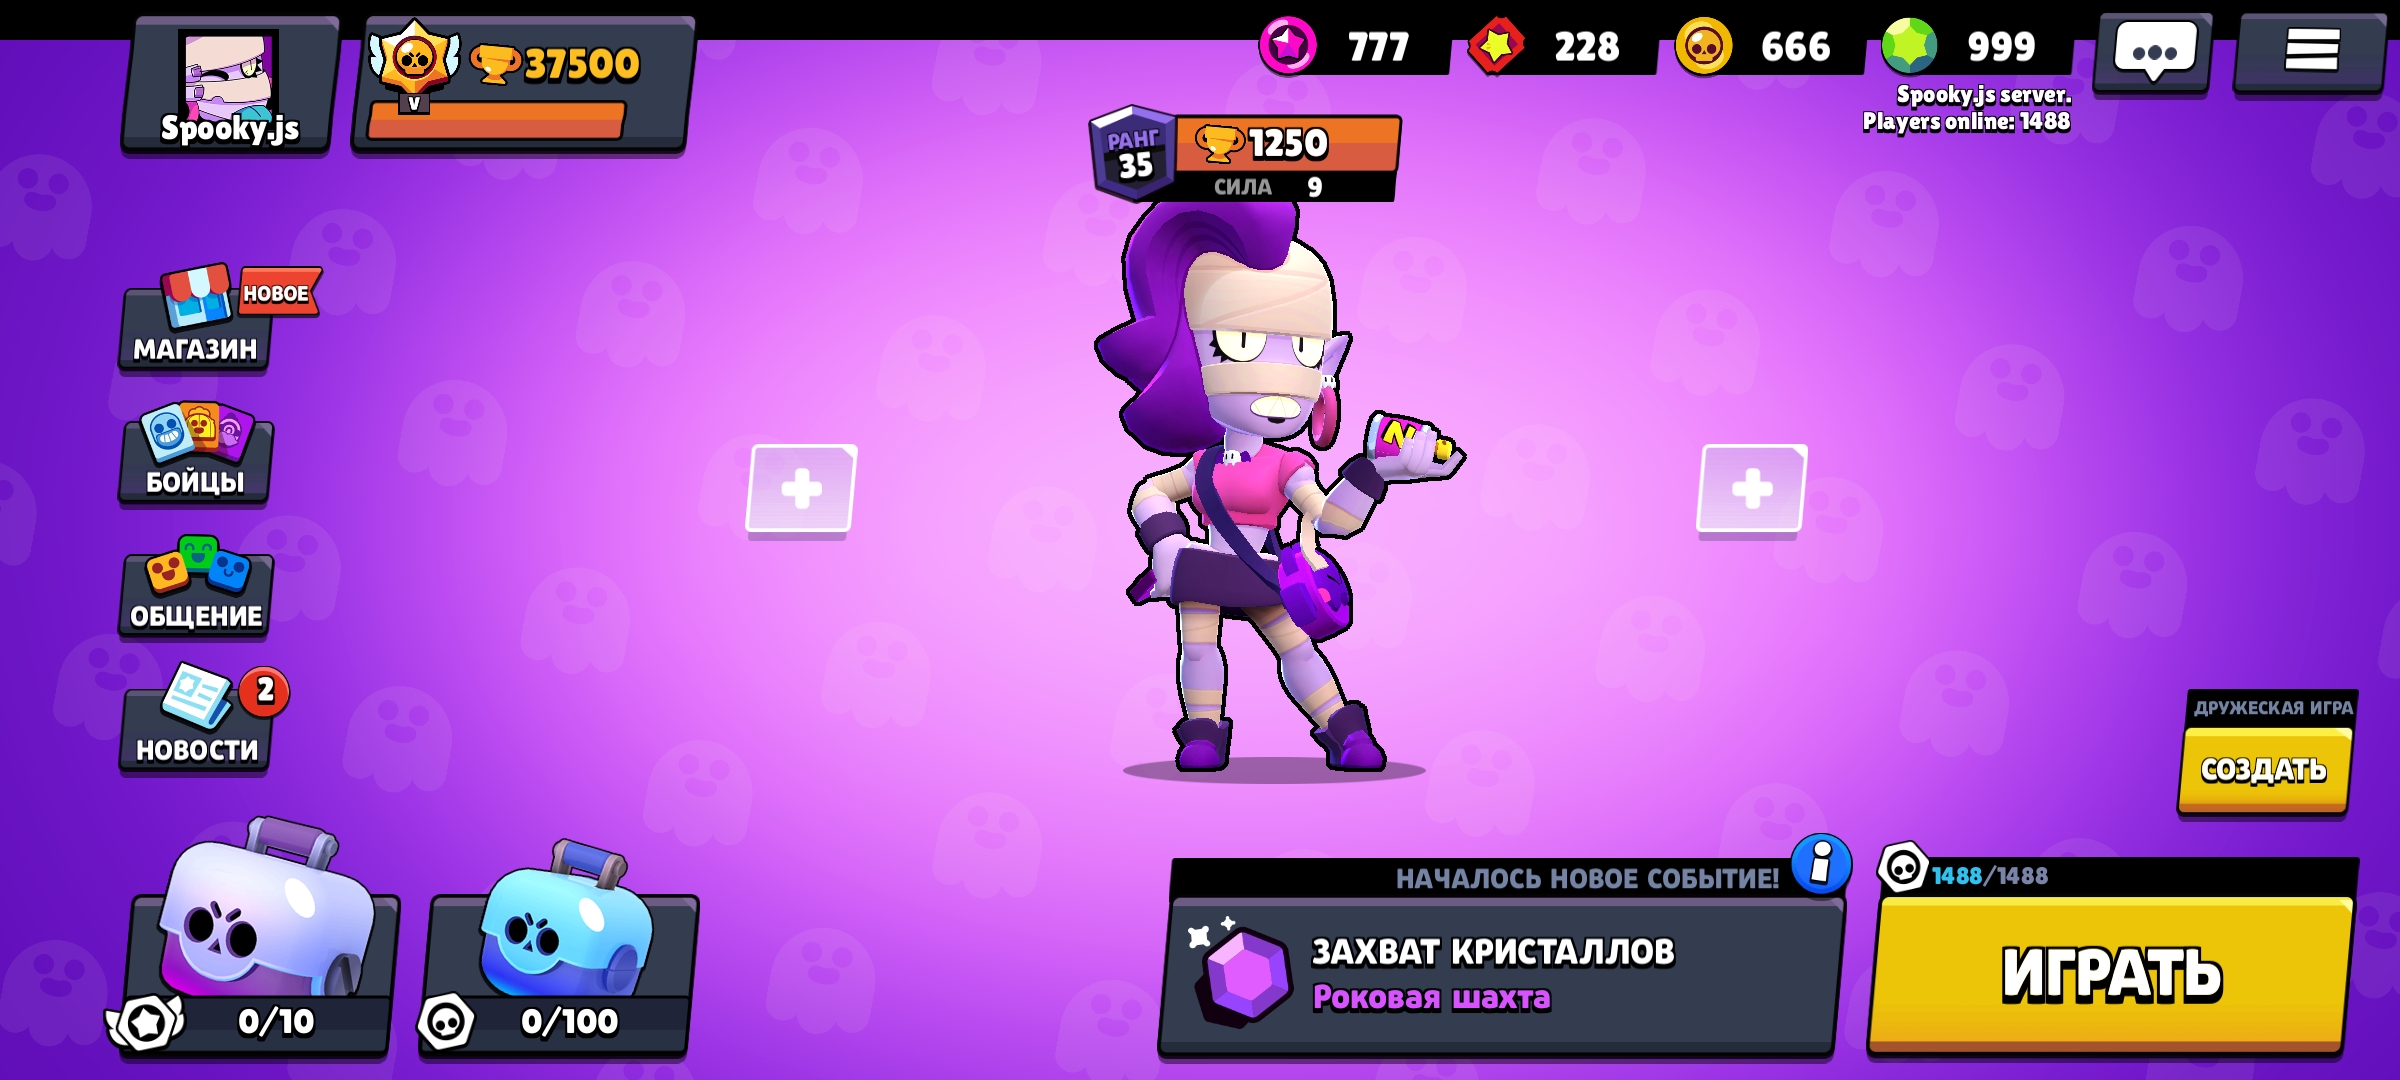
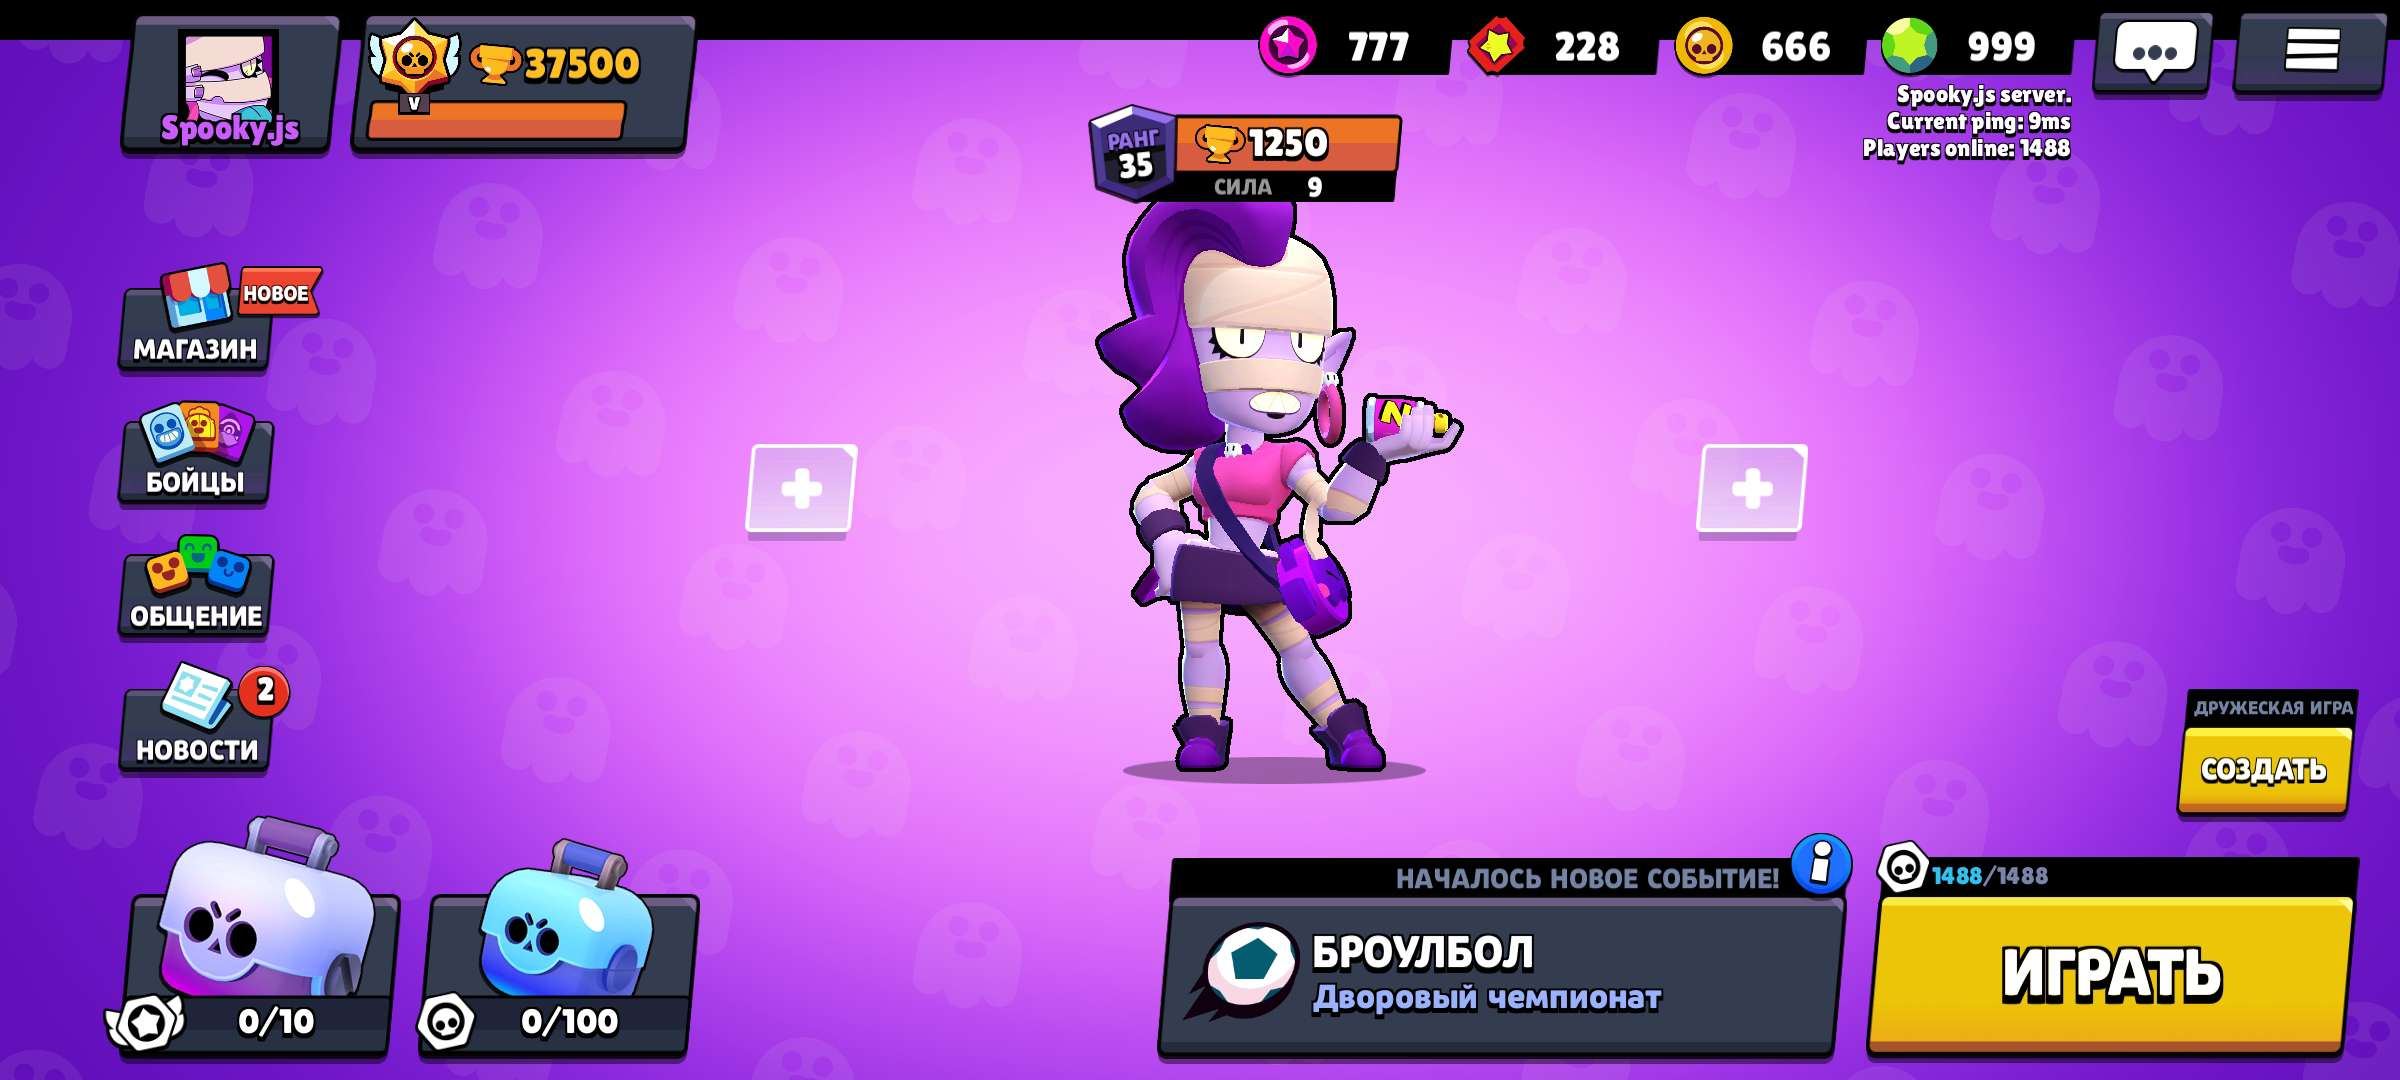
[v1.2] - Update!

diff --git a/Protocol/Messages/Client/EndClientTurnMessage.js b/Protocol/Messages/Client/EndClientTurnMessage.js
@@ -1,0 +1,61 @@
+const PiranhaMessage = require('../../PiranhaMessage')
+const CommandManager = require("../../CommandManager")
+const Utils = require("../../../Logic/Utils")
+const Commands = new CommandManager()
+
+class EndClientTurnMessage extends PiranhaMessage {
+  constructor (bytes, client, player) {
+    super(bytes)
+    this.client = client
+    this.player = player
+    this.bytes = bytes
+    this.id = 14102
+    this.version = 0
+  }
+
+  async decode () {
+    this.readBoolean()
+    this.tick = this.readVInt()
+    this.checksum = this.readVInt()
+    this.count = this.readVInt()
+  }
+
+  async process () {
+    const commands = Commands.getCommands()
+
+    if(this.count == 0 && this.buffer.length > 32){ // in case if we receive broken command
+        let lastEncount = 0
+        let lastByte = 0
+        do{
+            lastEncount = this.offset
+            lastByte = this.readVInt()
+        }while(!Utils.range(500, 600).includes(lastByte) && commands.indexOf(String(lastByte)) == -1)
+            
+        if(Utils.range(500, 600).includes(lastByte)){
+            this.offset = lastEncount
+            this.count = 2
+        }
+    }
+
+    if(this.count == 0)return;
+
+    for(let i = 0; i < this.count; i++){
+        this.commandID = this.readVInt()
+        this.readVInt()
+        this.readVInt()
+        this.readVInt()
+        this.readVInt()
+
+        if(commands.indexOf(String(this.commandID)) != -1){
+            const command = new (Commands.handle(this.commandID))(this.bytes.slice(this.offset), this.client, this.player)
+            this.client.log(`Command ${this.commandID} (${command.constructor.name}) handled!`)
+            command.decode(this)
+            await command.process()
+        }else if(this.commandID > 499){
+            this.client.log(`Command ${this.commandID} isn't handled!`)
+        }
+    }
+  }
+}
+
+module.exports = EndClientTurnMessage

diff --git a/Protocol/Messages/Server/PlayerProfileMessage.js b/Protocol/Messages/Server/PlayerProfileMessage.js
@@ -1,0 +1,55 @@
+const PiranhaMessage = require('../../PiranhaMessage')
+
+class PlayerProfileMessage extends PiranhaMessage {
+  constructor (client, player, lowID) {
+    super()
+    this.id = 24113
+    this.client = client
+    this.player = player
+    this.version = 0
+
+    this.lowID = lowID
+  }
+
+  async encode () {
+    this.writeLogicLong(0, this.lowID)
+    this.writeVInt(0)
+
+    this.writeVInt(31)
+
+    for(let i = 0; i < 31; i++){
+        this.writeDataReference(16, i)
+        this.writeVInt(0)
+        this.writeVInt(1250)
+        this.writeVInt(1250)
+        this.writeVInt(8)
+    }
+
+    this.writeVInt(14)
+
+    this.writeLogicLong(1, 9999) // 3vs3 wins
+    this.writeLogicLong(2, 9999) // exp
+    this.writeLogicLong(3, 37500) // trophies
+    this.writeLogicLong(4, 37500) // hightrophies
+    this.writeLogicLong(5, 30) // brawlersAmount
+    this.writeLogicLong(6, 1)
+    this.writeLogicLong(7, 1)  // Something.
+    this.writeLogicLong(8, 9999) // Solo wins
+    this.writeLogicLong(9, 9999) // RoboRumble time
+    this.writeLogicLong(10, 9999) // BigBrawler time
+    this.writeLogicLong(11, 9999) // Duo wins
+    this.writeLogicLong(12, 21) // Passed level BossFight
+    this.writeLogicLong(13, 9999)
+    this.writeLogicLong(14, 1) // Best place in power play
+    
+
+    this.writeString(this.player.name)
+    this.writeVInt(100)
+    this.writeVInt(28000045)
+    this.writeVInt(43000010)
+
+    this.writeBoolean(false) // alliance
+  }
+}
+
+module.exports = PlayerProfileMessage

diff --git a/Protocol/Commands/Client/LogicSelectCharacterCommand.js b/Protocol/Commands/Client/LogicSelectCharacterCommand.js
@@ -1,0 +1,26 @@
+const PiranhaMessage = require("../../PiranhaMessage");
+const TeamMessage = require("../../Messages/Server/TeamMessage")
+
+class LogicSelectCharacterCommand extends PiranhaMessage{
+    constructor(bytes, client, player){
+        super(bytes)
+        this.client = client;
+        this.player = player;
+        this.commandID = 525
+        this.version = 0
+    }
+
+    decode(self){
+        this.brawlerID = self.readDataReference()[1]
+    }
+
+    async process(){
+        this.player.homeBrawler = this.brawlerID
+
+        if(this.player.team.inTeam){
+            new TeamMessage(this.client, this.player).send()
+        }
+    }
+}
+
+module.exports = LogicSelectCharacterCommand

diff --git a/Protocol/Commands/Client/LogicSelectSkinCommand.js b/Protocol/Commands/Client/LogicSelectSkinCommand.js
@@ -1,0 +1,26 @@
+const PiranhaMessage = require("../../PiranhaMessage");
+const TeamMessage = require("../../Messages/Server/TeamMessage")
+
+class LogicSelectSkinCommand extends PiranhaMessage{
+    constructor(bytes, client, player){
+        super(bytes)
+        this.client = client;
+        this.player = player;
+        this.commandID = 506
+        this.version = 0
+    }
+
+    decode(self){
+        this.skin = self.readDataReference()[1]
+    }
+
+    async process(){
+        this.player.skin = this.skin
+
+        if(this.player.team.inTeam){
+            new TeamMessage(this.client, this.player).send()
+        }
+    }
+}
+
+module.exports = LogicSelectSkinCommand

diff --git a/Protocol/CommandManager.js b/Protocol/CommandManager.js
@@ -1,0 +1,28 @@
+const fs = require("fs");
+
+class CommandManager{
+    constructor(){
+        this.commands = {}
+
+        fs.readdir('./Protocol/Commands/Client', (err, files) => {
+            if(err)console.log(err)
+            files.forEach(e => {
+                let Command = require(`./Commands/Client/${e.replace(".js", "")}`);
+                let commandClass = new Command()
+
+                this.commands[commandClass.commandID] = Command 
+            })
+        })
+    }
+
+    handle(id){
+        return this.commands[id]
+    };
+
+    getCommands(){
+        return Object.keys(this.commands)
+    }
+
+}
+
+module.exports = CommandManager

diff --git a/Protocol/Messages/Client/TeamSetLocationMessage.js b/Protocol/Messages/Client/TeamSetLocationMessage.js
@@ -1,0 +1,24 @@
+const PiranhaMessage = require('../../PiranhaMessage')
+const TeamMessage = require('../Server/TeamMessage')
+
+class TeamSetLocationMessage extends PiranhaMessage {
+  constructor (bytes, client, player) {
+    super(bytes)
+    this.client = client
+    this.player = player
+    this.id = 14363
+    this.version = 0
+  }
+
+  async decode () {
+    this.mapID = this.readDataReference()[1]
+  }
+
+  async process () {
+    this.player.team.mapID = this.mapID
+
+    new TeamMessage(this.client, this.player).send()
+  }
+}
+
+module.exports = TeamSetLocationMessage

diff --git a/Protocol/Messages/Client/GetPlayerProfileMessage.js b/Protocol/Messages/Client/GetPlayerProfileMessage.js
@@ -1,0 +1,22 @@
+const PiranhaMessage = require('../../PiranhaMessage')
+const PlayerProfileMessage = require('../Server/PlayerProfileMessage')
+
+class GetPlayerProfileMessage extends PiranhaMessage {
+  constructor (bytes, client, player) {
+    super(bytes)
+    this.client = client
+    this.player = player
+    this.id = 14113
+    this.version = 0
+  }
+
+  async decode () {
+    this.lowID = this.readLong()[1]
+  }
+
+  async process () {
+    await new PlayerProfileMessage(this.client, this.player, this.lowID).send()
+  }
+}
+
+module.exports = GetPlayerProfileMessage

diff --git a/Protocol/Messages/Server/LobbyInfoMessage.js b/Protocol/Messages/Server/LobbyInfoMessage.js
@@ -1,16 +1,17 @@
 const PiranhaMessage = require('../../PiranhaMessage')
 
 class LobbyInfoMessage extends PiranhaMessage {
-  constructor (client) {
+  constructor (client, player) {
     super()
     this.id = 23457
     this.client = client
+    this.player = player
     this.version = 0
   }
 
   async encode () {
     this.writeVInt(1488)
-    this.writeString("Spooky.js server.")
+    this.writeString(`Spooky.js server.\nCurrent ping: ${this.player.latency}ms`)
     this.writeVInt(0)
   }
 }

diff --git a/Protocol/Messages/Server/OwnHomeDataMessage.js b/Protocol/Messages/Server/OwnHomeDataMessage.js
@@ -22,7 +22,7 @@ class OwnHomeDataMessage extends PiranhaMessage {
     this.writeVInt(999999)
 
     this.writeDataReference(28, 45)
-    this.writeDataReference(43, 0)
+    this.writeDataReference(43, 10)
 
     this.writeVInt(0) // PlayedGamemodesArray
 
@@ -33,7 +33,7 @@ class OwnHomeDataMessage extends PiranhaMessage {
     this.writeVInt(0) // UnlockedSkins
 
     this.writeVInt(0)
-    this.writeVInt(0)
+    this.writeVInt(37500)
     this.writeVInt(0)
 
     this.writeBoolean(false)

diff --git a/Protocol/Messages/Client/ClientCapabilitiesMessage.js b/Protocol/Messages/Client/ClientCapabilitiesMessage.js
@@ -1,0 +1,21 @@
+const PiranhaMessage = require("../../PiranhaMessage");
+
+class ClientCapabilitiesMessage extends PiranhaMessage{
+    constructor(bytes, client, player){
+        super(bytes)
+        this.client = client;
+        this.player = player;
+        this.id = 10107
+        this.version = 0
+    }
+
+    decode(){
+        this.player.latency = this.readVInt()
+    }
+
+    process(){
+
+    }
+}
+
+module.exports = ClientCapabilitiesMessage

diff --git a/Protocol/Messages/Server/TeamMessage.js b/Protocol/Messages/Server/TeamMessage.js
@@ -29,7 +29,7 @@ class TeamMessage extends PiranhaMessage {
         this.writeLong(0, this.player.lowID)
 
         this.writeDataReference(16, this.player.homeBrawler)
-        this.writeVInt(0) // Skin
+        this.writeDataReference(29, this.player.skin) // Skin
 
         this.writeVInt(1250)
         this.writeVInt(1250)

diff --git a/Logic/Player.js b/Logic/Player.js
@@ -8,6 +8,7 @@ class Player {
         inTeam: false,
         mapID: 0
     }
+    skin = 0
 
     maps = [ // le tailed laziness gets in the way put it into other class :upside_down:
         {
@@ -47,6 +48,8 @@ class Player {
             length: 86400
         }
     ]
+
+    latency = 0
 
     constructor(){
         
